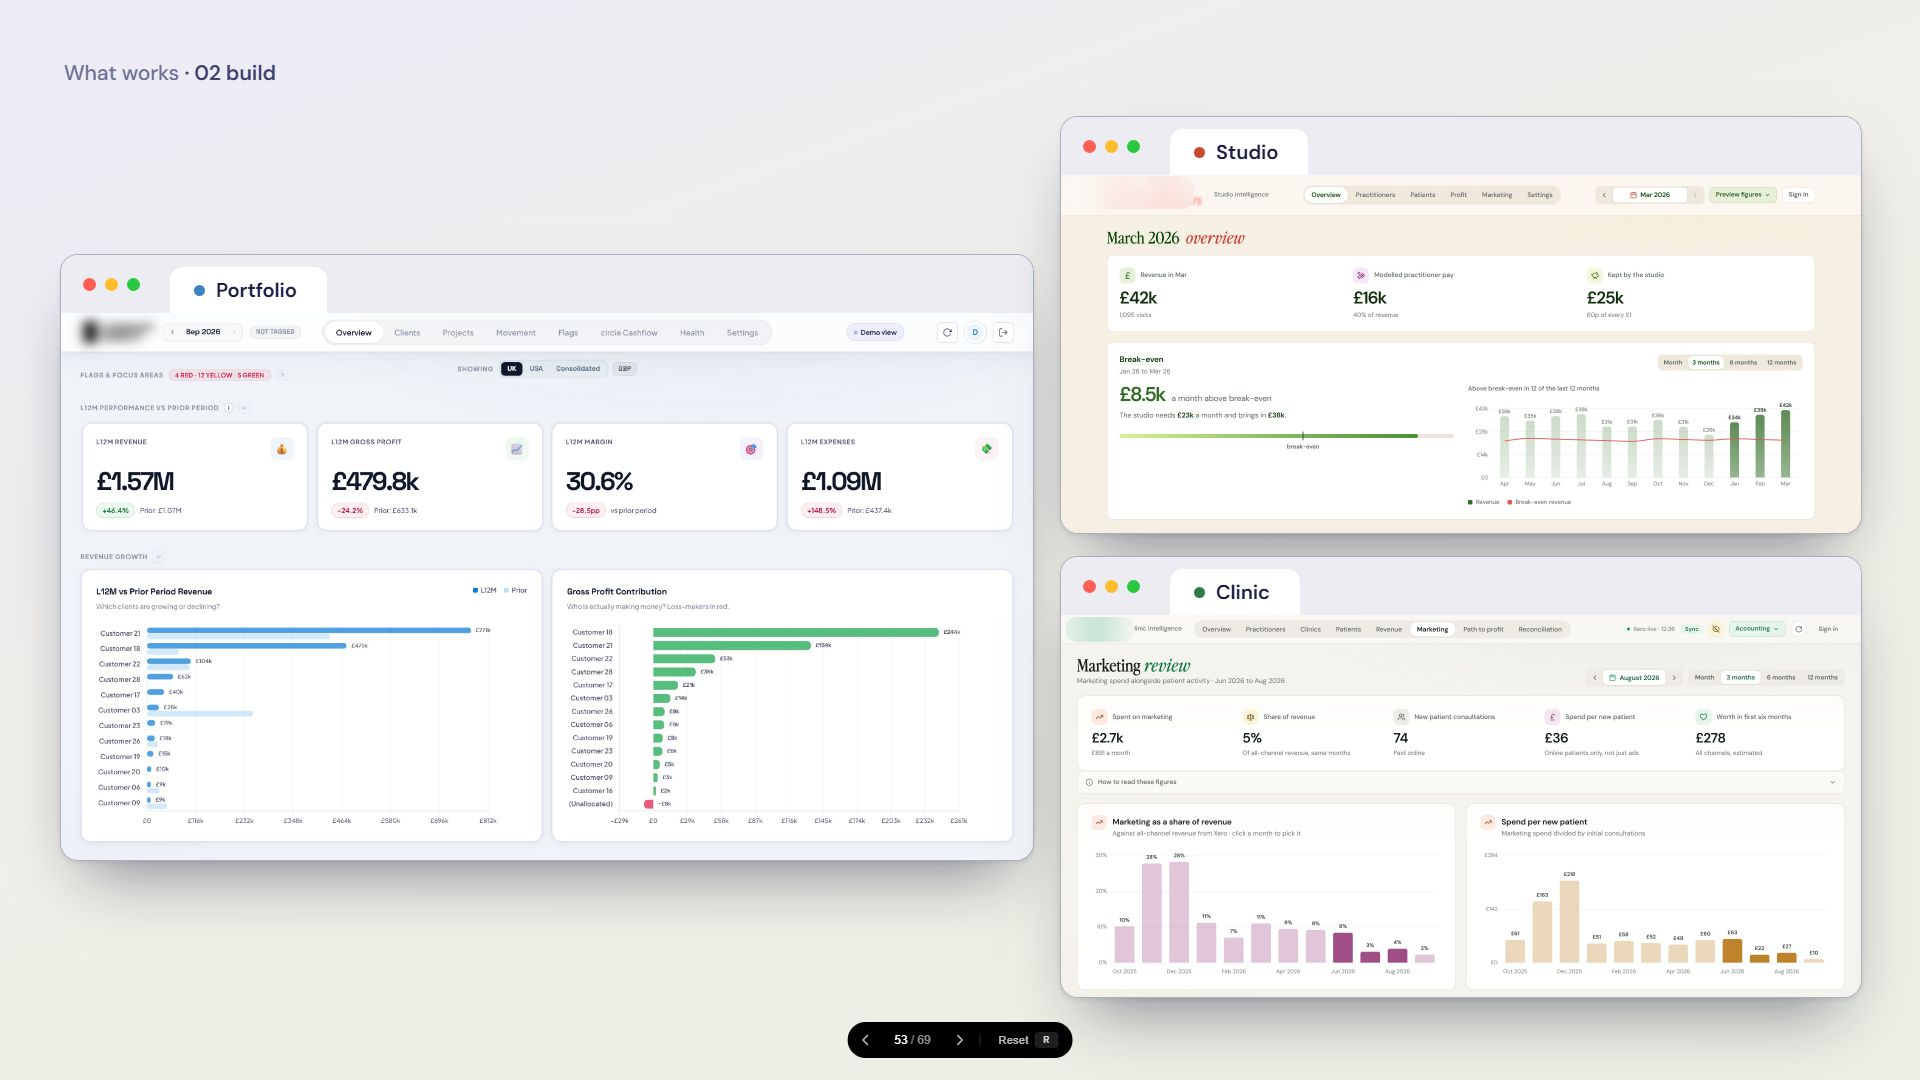
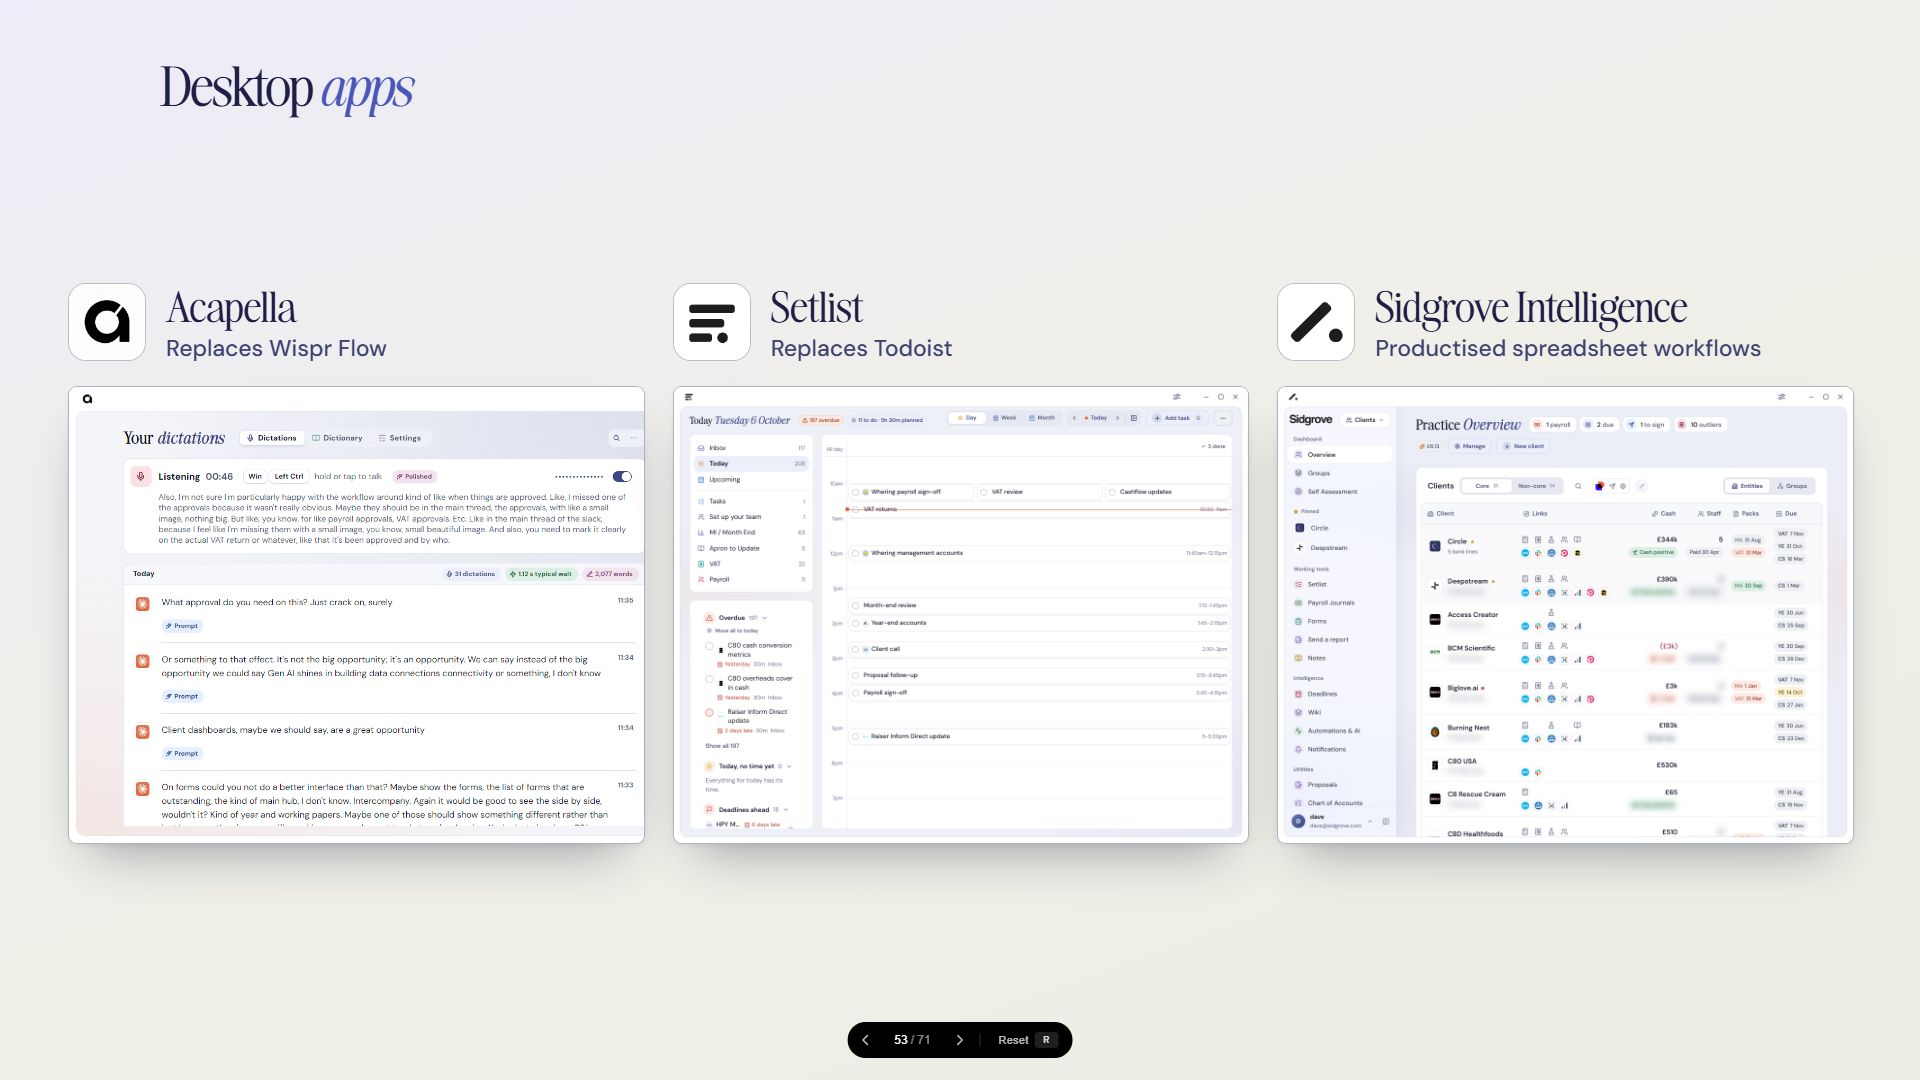
Auto Bank Wreck: embedded AI and live reporting slides, forms hub, intercompany side by side, working papers hub, current Acapella window, desktop apps without hotkeys, client dashboards as a great opportunity

diff --git a/presentations/auto-bank-wreck/index.html b/presentations/auto-bank-wreck/index.html
@@ -2754,6 +2754,21 @@ deck-stage { background: #0a0a0a; }
     </div>
   </section>
 
+  <section class="slide" data-label="Embedded AI">
+    <div class="frame" style="--pad-y: 56px;">
+      <div class="topbar"><p class="section-tag">What works <em>· 02 build</em></p><span class="page-chip"></span></div>
+
+      <div class="feat-head has-sub"><h2 class="display">Embedded <em>AI</em></h2><p class="sub feat-sub">AI savvy, not AI native. <em>Deterministic at its core.</em></p></div>
+      <div class="fill center-y">
+        <div class="shot-wrap">
+          <figure class="shot window"><img src="images/slides/41a-app-showcase/ai-integrations-oct06.jpg" alt="AI integrations: Claude, Jev, Gemini and other labs, what each one does, and the month spend against its budget"><figcaption></figcaption></figure>
+        </div>
+      </div>
+
+      <div class="bottombar"></div>
+    </div>
+  </section>
+
   <section class="slide" data-label="Daily cashflow">
     <div class="frame" style="--pad-y: 56px;">
       <div class="topbar"><p class="section-tag">What works <em>· 02 build</em></p><span class="page-chip"></span></div>
@@ -2852,6 +2867,21 @@ deck-stage { background: #0a0a0a; }
     </div>
   </section>
 
+  <section class="slide" data-label="Live reporting">
+    <div class="frame" style="--pad-y: 56px;">
+      <div class="topbar"><p class="section-tag">What works <em>· 02 build</em></p><span class="page-chip"></span></div>
+
+      <div class="feat-head"><h2 class="display">Live <em>reporting</em></h2></div>
+      <div class="fill center-y">
+        <div class="shot-wrap">
+          <figure class="shot window"><img src="images/slides/41a-app-showcase/live-reporting-oct06.jpg" alt="Circle live profit and loss, straight from Xero: month by month with variance"><figcaption></figcaption></figure>
+        </div>
+      </div>
+
+      <div class="bottombar"></div>
+    </div>
+  </section>
+
   <section class="slide" data-label="Bookkeeping">
     <div class="frame" style="--pad-y: 56px;">
       <div class="topbar"><p class="section-tag">What works <em>· 02 build</em></p><span class="page-chip"></span></div>
@@ -2892,6 +2922,7 @@ deck-stage { background: #0a0a0a; }
       <div class="bottombar"></div>
     </div>
   </section>
+
 
   <section class="slide" data-label="Month end">
     <div class="frame" style="--pad-y: 56px;">
@@ -2993,9 +3024,13 @@ deck-stage { background: #0a0a0a; }
 
       <div class="feat-head"><h2 class="display">Year-end <em>working papers</em></h2></div>
       <div class="fill center-y">
-        <div class="duo">
-        <figure class="shot window"><img src="images/slides/41a-app-showcase/ye-balance-sheet-oct06.jpg" alt="Year-end balance sheet review: every account by month, flagged or ticked"><figcaption></figcaption></figure>
-        <figure class="shot window"><img src="images/slides/41a-app-showcase/ye-pl-review-oct06.jpg" alt="Year-end P&amp;L review: each account reviewed, queried or passed"><figcaption></figcaption></figure>
+        <div class="stack">
+          <figure class="shot window"><img src="images/slides/41a-app-showcase/ye-hub-wide-oct06.jpg" alt="Working papers: P&amp;L review, balance sheet, receivables, payables, bank recs, fixed assets, corporation tax and disclosure notes, each with its progress"><figcaption></figcaption></figure>
+          <div class="stack-row">
+            <figure class="shot window"><img src="images/slides/41a-app-showcase/ye-fixed-assets-oct06.jpg" alt="Fixed assets: the pool roll-forward and the asset register"><figcaption></figcaption></figure>
+            <figure class="shot window"><img src="images/slides/41a-app-showcase/ye-bank-recs-oct06.jpg" alt="Bank reconciliations: each account against its statement"><figcaption></figcaption></figure>
+            <figure class="shot window"><img src="images/slides/41a-app-showcase/ye-tax-oct06.jpg" alt="Corporation tax: profit, add-backs, deductions and the computation"><figcaption></figcaption></figure>
+          </div>
         </div>
       </div>
 
@@ -3009,9 +3044,10 @@ deck-stage { background: #0a0a0a; }
 
       <div class="feat-head"><h2 class="display">Groups &amp; <em>intercompany</em></h2></div>
       <div class="fill center-y">
-        <div class="duo fit">
-          <figure class="shot window"><img src="images/slides/41a-app-showcase/st-biglove.jpg" alt="Group structure: eight companies under one owner, with revenue and cash. Names blurred, figures changed"><figcaption></figcaption></figure>
+        <div class="tri3">
           <figure class="shot window"><img src="images/slides/41a-app-showcase/ic-matrix.jpg" alt="Intercompany matrix for an eight-company group: each pair balanced or with its difference. Names blurred, figures changed"><figcaption></figcaption></figure>
+          <figure class="shot window"><img src="images/slides/41a-app-showcase/ic-recon.jpg" alt="Intercompany reconciliation of one pair: both ledgers side by side, month by month. Names blurred, figures changed"><figcaption></figcaption></figure>
+          <figure class="shot window small"><img src="images/slides/41a-app-showcase/st-biglove.jpg" alt="Group structure: eight companies under one owner, with revenue and cash. Names blurred, figures changed"><figcaption></figcaption></figure>
         </div>
       </div>
 
@@ -3025,8 +3061,9 @@ deck-stage { background: #0a0a0a; }
 
       <div class="feat-head"><h2 class="display">Client <em>forms</em></h2></div>
       <div class="fill center-y">
-        <div class="pair">
-          <figure class="shot window"><img src="images/slides/41a-app-showcase/form-desktop-oct06.jpg" alt="Circle's new starter form: welcome, what to have to hand, personal details"><figcaption>intelligence.sidgrove.com/f/circle/new-starter-form</figcaption></figure>
+        <div class="pair trio">
+          <figure class="shot window"><img src="images/slides/41a-app-showcase/forms-hub-oct06.jpg" alt="Client forms: new starters received and the form link for each client"><figcaption></figcaption></figure>
+          <figure class="shot window"><img src="images/slides/41a-app-showcase/form-tall-oct06.jpg" alt="Circle's new starter form: welcome, what to have to hand, personal details"><figcaption>intelligence.sidgrove.com/f/circle/new-starter-form</figcaption></figure>
           <div class="slack-inset side" aria-hidden="true">
             <div class="si-bar"><img src="images/shared/site/slack.svg" alt=""><span>#circle_payroll</span></div>
             <div class="si-msg">
@@ -3088,8 +3125,7 @@ deck-stage { background: #0a0a0a; }
               <img class="dapp-mark" src="images/slides/41c-desktop-apps/acapella-icon.png" alt="">
               <div class="dapp-id"><p class="dapp-name">Acapella</p><p class="dapp-was">Replaces Wispr Flow</p></div>
             </div>
-            <img class="dapp-win" src="images/slides/41a-app-showcase/acapella.png" alt="The Acapella window: hold a key to dictate, and the day's dictations listed beneath">
-            <p class="dapp-keys"><kbd>Win</kbd><kbd>Left Ctrl</kbd></p>
+            <img class="dapp-win" src="images/slides/41c-desktop-apps/acapella-oct06.png" alt="The Acapella window: hold a key to dictate, and the day's dictations listed beneath">
           </div>
           <div class="dapp">
             <div class="dapp-head">
@@ -3097,7 +3133,6 @@ deck-stage { background: #0a0a0a; }
               <div class="dapp-id"><p class="dapp-name">Setlist</p><p class="dapp-was">Replaces Todoist</p></div>
             </div>
             <img class="dapp-win" src="images/slides/41c-desktop-apps/setlist.png" alt="The Setlist window: today's tasks laid out on the day, with the lists and what is overdue alongside">
-            <p class="dapp-keys"><kbd>Ctrl</kbd><kbd>Alt</kbd><kbd>T</kbd></p>
           </div>
           <div class="dapp">
             <div class="dapp-head">
@@ -3105,7 +3140,6 @@ deck-stage { background: #0a0a0a; }
               <div class="dapp-id"><p class="dapp-name">Sidgrove Intelligence</p><p class="dapp-was">Productised spreadsheet workflows</p></div>
             </div>
             <img class="dapp-win" src="images/slides/41c-desktop-apps/intelligence.png" alt="The Sidgrove Intelligence window, open on the practice overview: every client with cash, staff, packs and what is due">
-            <p class="dapp-keys"><kbd>Ctrl</kbd><kbd>Alt</kbd><kbd>I</kbd></p>
           </div>
         </div>
       </div>
@@ -3122,7 +3156,7 @@ deck-stage { background: #0a0a0a; }
       <div class="topbar"><p class="section-tag">What works <em>· 02 build</em></p><span class="page-chip"></span></div>
       <div class="fill center-y">
         <p class="build-kicker">Built with Claude Code</p>
-        <h2 class="display" style="font-size: 150px;">Client dashboards.<br><em>The big new opportunity.</em></h2>
+        <h2 class="display" style="font-size: 150px;">Client dashboards.<br><em>A great opportunity.</em></h2>
       </div>
       <div class="bottombar"></div>
     </div>
@@ -3857,19 +3891,21 @@ deck-stage { background: #0a0a0a; }
   {"say":["Deadlines. The practice view on the left: every client's year-end accounts, confirmation statements and VAT. The client's own view in the middle. And every morning at eight the same thing lands in Slack."]},
   {"say":["Task management, built in: every project, the day planned, and the filing deadlines sitting alongside the work."]},
   {"say":["Fifty automations running across the practice, every run tracked. When one fails, it says so."]},
+  {"say":["And the AI inside it. AI savvy, not AI native: the app is deterministic at its core, and AI is used where it earns its place. Every model, what it does, what it reads, and what it costs: about six pounds this month."]},
   {"say":["Daily cashflow, pulled over the bank and ledger APIs every morning. This is the demo client, Circle; the real ones look the same.","And the weekly cashflow report lands in Slack automatically: balance, net, spend, income, top payments. Nobody has to open the app."]},
   {"say":["The 13-week cash forecast: cash today, what is coming in and going out, and the lowest point before it happens."]},
   {"say":["Forecasting: actuals roll straight into a 12-month forecast, line by line, with its own rules. This used to be a spreadsheet."]},
   {"say":["Management accounts hosted in the app, with notifications when a pack is ready and when it has been read."]},
+  {"say":["Live reporting: the P&L, balance sheet and cash flow straight from Xero, month by month, with the checks that tell you whether the numbers can be trusted yet."]},
   {"say":["Bookkeeping workflow and comms: what is outstanding, who is waiting on whom, and the messages to the client in one place."]},
   {"say":["Month end. Prepayments and accruals on the left, synced to Xero. And the other month-end processes run the same way: payroll reallocations, direct costs, the corporation tax accrual, each one a schedule that posts its own journal."]},
   {"say":["Payroll reviews with a client review workflow: I review, the client signs off, the trail is kept."]},
   {"say":["VAT reviews with the same client review workflow."]},
-  {"say":["Year-end working papers, live from Xero: the balance sheet and the P&L account by account, each one ticked, flagged or queried, through to the tax computation."]},
-  {"say":["Groups: the structure is built from Companies House, who owns what and how each company is doing. And intercompany: the matrix of every pair in the group, balanced or with its difference. Names blurred, figures changed."]},
-  {"say":["Client forms: a readable link the client opens on their phone, five minutes, and the practice hears in Slack the moment it comes back. The answers never go into Slack."]},
+  {"say":["Year-end working papers, live from Xero. Each paper with its own progress: P&L and balance sheet review, receivables, payables, bank recs, fixed assets, corporation tax. Below: the fixed asset register, the bank reconciliations and the tax computation."]},
+  {"say":["Groups and intercompany. The matrix of every pair in the group, balanced or with its difference; any pair opened up side by side, both ledgers, month by month; and the structure itself, built from Companies House. Names blurred, figures changed."]},
+  {"say":["Client forms. The hub on the left: every client's form link and what has come back. The new starter form itself in the middle. And when someone completes it, we get the ping in Slack."]},
   {"say":["Proposals, written and sent from the same app: the situation, the services, the fees, and the client accepts online."]},
-  {"say":["And it is not only in the browser. Three desktop apps, each one hotkey away. Acapella is my own dictation app: hold a key, speak, and it types into whatever is open; it replaced Wispr Flow. Setlist is my task manager; it replaced Todoist. And Sidgrove Intelligence itself, in its own window."]},
+  {"say":["And it is not only in the browser. Three desktop apps. Acapella is my own dictation app: hold a key, speak, and it types into whatever is open; it replaced Wispr Flow. Setlist is my task manager; it replaced Todoist. And Sidgrove Intelligence itself, in its own window."]},
   {"say":["And this is the big new opportunity. Every client gets their own dashboard, in their own colours, built from their own data, in days not months. Not a template: built for them."]},
   {"say":["Three of them. A media group: the last twelve months against the year before, and which customers make the money. A chiropractic studio: twelve months against break-even at a glance. And a clinic: whether the marketing is paying for itself, spend per new patient, month by month. Different businesses, so different dashboards. Figures are changed and the logos are blurred; everything else is real."]},
   {"say":["This deck. Every slide is HTML written in Claude Code from a plain-text plan; I edit the words, it rebuilds the slides."]},
@@ -4839,6 +4875,17 @@ p.perm-sub { font-size: 20px; } .perm-row .ck { font-size: 20px; } .perm-actions
 /* Two screens of different shapes, each whole and the same height. */
 .fill .duo.fit { grid-template-columns: 1.585fr 1fr; align-items: center; width: calc(100% + 96px); }
 .fill .duo.fit .shot img { height: auto; max-height: none; object-fit: contain; }
+/* ── Round four (06/10): three-screen layouts and the small partner image. ── */
+.tri3 { display: grid; grid-template-columns: 1fr 1fr 430px; gap: 18px; align-items: center; width: calc(100% + 96px); }
+.feat-head ~ .fill .tri3 .shot img { width: 100%; height: 790px; max-height: none; object-fit: cover; object-position: left top; }
+.feat-head ~ .fill .tri3 .shot.small img { height: auto; object-fit: contain; }
+.stack { display: flex; flex-direction: column; gap: 18px; width: calc(100% + 96px); }
+.stack-row { display: grid; grid-template-columns: repeat(3, 1fr); gap: 18px; }
+.feat-head ~ .fill .stack .shot img { width: 100%; height: auto; max-height: none; }
+.feat-head ~ .fill .stack > .shot img { height: 352px; object-fit: cover; object-position: left top; }
+.pair-side { flex: none; position: relative; z-index: 2; width: 400px; margin-left: -22px; border-radius: 14px; border: 1px solid rgba(30,30,70,0.3); background: #fff; box-shadow: 0 24px 50px -24px rgba(15,16,48,0.4); }
+.feat-head .feat-sub { margin: 4px 0 0; font-size: 26px; }
+.feat-head.has-sub ~ .fill .shot img { max-height: 780px; }
 /* ══ Two looks, one deck ═══════════════════════════════════════════
    <html data-screen="standard"> is everything above: laptop, good monitor.
    <html data-screen="venue"> is the block below: a big, bright LCD in a lit
